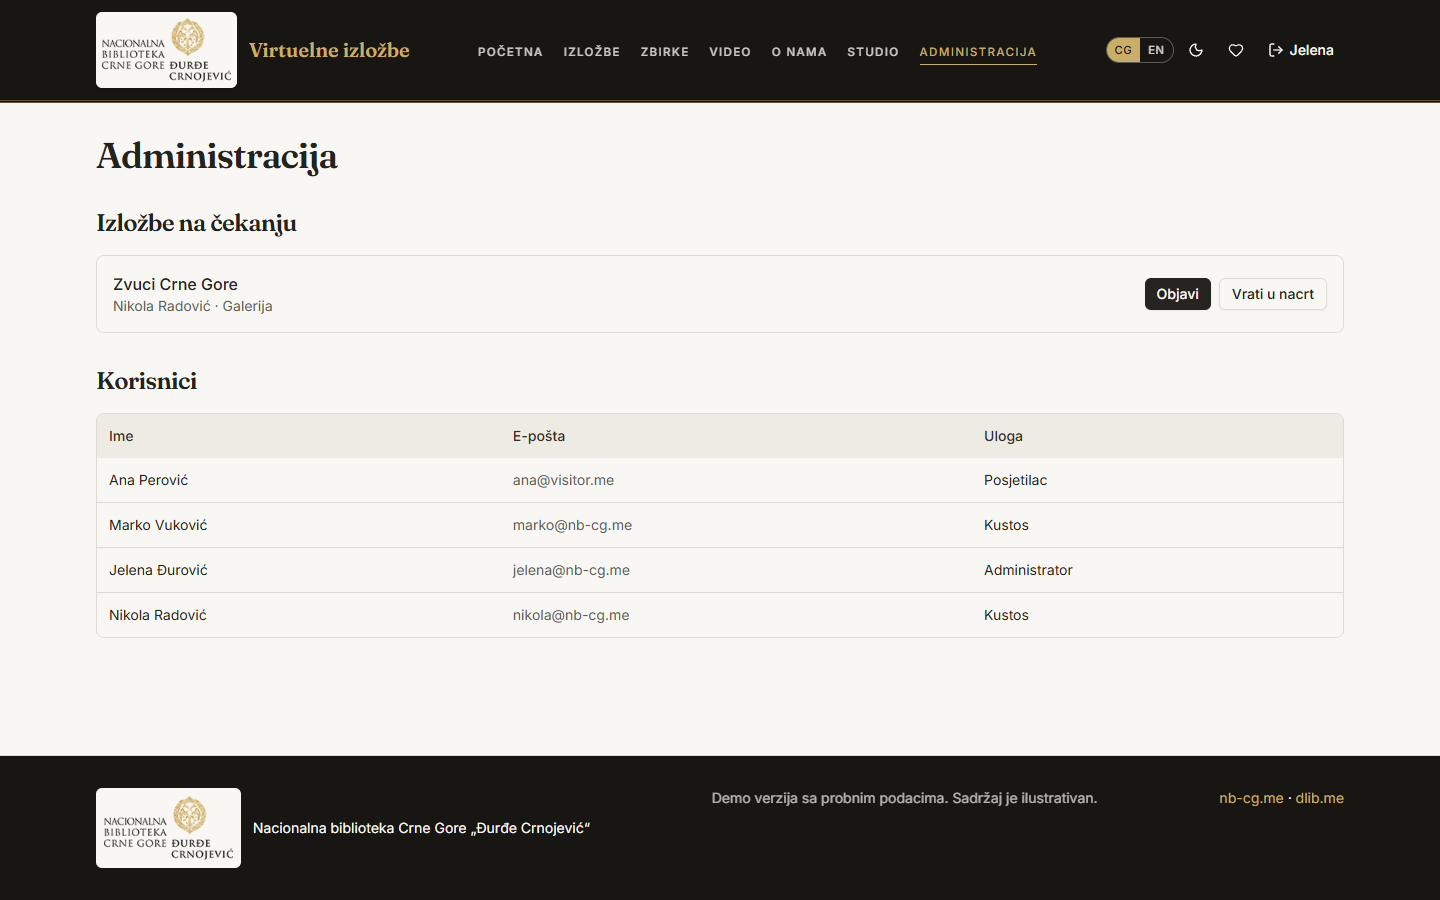
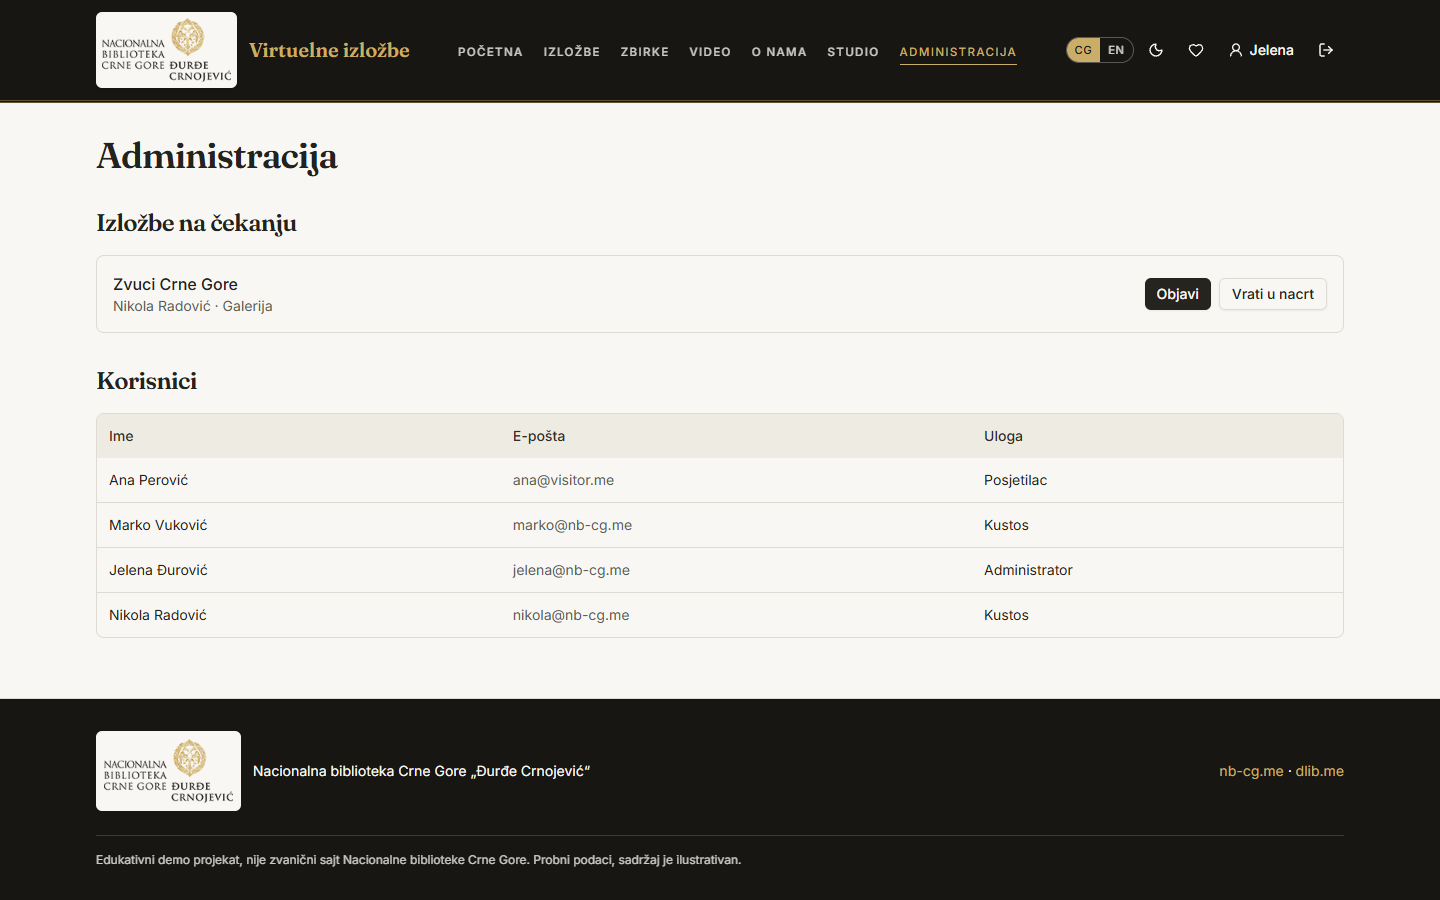
docs: state clearly that this is an unofficial educational demo
Add a notice to both READMEs and an unofficial-demo line in the site footer
(in both languages), give the footer notice its own row and refresh the two
screenshots that showed the old footer.

diff --git a/frontend/src/app/app-layout.tsx b/frontend/src/app/app-layout.tsx
@@ -219,33 +219,35 @@ export function AppLayout() {
       </main>
 
       <footer className="border-t bg-ink text-primary-foreground">
-        <div className="mx-auto flex max-w-7xl flex-col gap-2 px-4 py-8 text-sm sm:flex-row sm:justify-between">
-          <p className="flex items-center gap-3">
-            <span className="rounded-md bg-plate p-2">
-              <img src="/nbcg-logo.png" alt="" width={144} height={72} className="h-16 w-auto" />
-            </span>
-            {t('app.org')}
-          </p>
-          <p className="opacity-70">{t('footer.note')}</p>
-          <p>
-            <a
-              href="https://nb-cg.me"
-              className="text-accent hover:underline"
-              target="_blank"
-              rel="noreferrer"
-            >
-              nb-cg.me
-            </a>{' '}
-            ·{' '}
-            <a
-              href="https://dlib.me"
-              className="text-accent hover:underline"
-              target="_blank"
-              rel="noreferrer"
-            >
-              dlib.me
-            </a>
-          </p>
+        <div className="mx-auto flex max-w-7xl flex-col gap-6 px-4 py-8 text-sm">
+          <div className="flex flex-col gap-4 sm:flex-row sm:items-center sm:justify-between">
+            <p className="flex items-center gap-3">
+              <span className="rounded-md bg-plate p-2">
+                <img src="/nbcg-logo.png" alt="" width={144} height={72} className="h-16 w-auto" />
+              </span>
+              {t('app.org')}
+            </p>
+            <p>
+              <a
+                href="https://nb-cg.me"
+                className="text-accent hover:underline"
+                target="_blank"
+                rel="noreferrer"
+              >
+                nb-cg.me
+              </a>{' '}
+              ·{' '}
+              <a
+                href="https://dlib.me"
+                className="text-accent hover:underline"
+                target="_blank"
+                rel="noreferrer"
+              >
+                dlib.me
+              </a>
+            </p>
+          </div>
+          <p className="border-t border-primary-foreground/20 pt-4 text-xs opacity-80">{t('footer.note')}</p>
         </div>
       </footer>
     </div>

diff --git a/frontend/src/lib/messages-me.ts b/frontend/src/lib/messages-me.ts
@@ -154,7 +154,8 @@ export const me = {
   'admin.role': 'Uloga',
   'notFound.title': 'Stranica nije pronađena',
   'notFound.back': 'Nazad na početnu',
-  'footer.note': 'Demo verzija sa probnim podacima. Sadržaj je ilustrativan.',
+  'footer.note':
+    'Edukativni demo projekat, nije zvanični sajt Nacionalne biblioteke Crne Gore. Probni podaci, sadržaj je ilustrativan.',
   'footer.links': 'Veze',
   'common.loading': 'Učitavanje…',
   'common.error': 'Došlo je do greške.',

diff --git a/frontend/src/lib/messages-en.ts b/frontend/src/lib/messages-en.ts
@@ -156,7 +156,8 @@ export const en = {
   'admin.role': 'Role',
   'notFound.title': 'Page not found',
   'notFound.back': 'Back to home',
-  'footer.note': 'Demo version with sample data. Content is illustrative.',
+  'footer.note':
+    'Educational demo project, not the official website of the National Library of Montenegro. Sample data, content is illustrative.',
   'footer.links': 'Links',
   'common.loading': 'Loading…',
   'common.error': 'Something went wrong.',

diff --git a/README.md b/README.md
@@ -6,6 +6,8 @@ A bilingual (Montenegrin Latin script / English) platform where curators build i
 
 > Status: **frontend workshop (AI-DEV 2026, Workshop 3)** is done, running on mock data. The backend comes in Workshop 4. The contract between them is in [`docs/entities.md`](docs/entities.md).
 
+> **Notice:** this is an independent, educational demo project made for a workshop. It is **not** the official website of the National Library of Montenegro and is not affiliated with or endorsed by it. The library name and logo are used only for illustration, texts are illustrative, and the sample images and videos come from Wikimedia Commons.
+
 ![Home page](docs/screenshots/home-desktop.png)
 
 ## Highlights
@@ -122,4 +124,4 @@ Replace the mock `api/` folders with real HTTP calls, add a database modelled af
 
 ## Content and licences
 
-Texts are illustrative. Sample images and videos come from [Wikimedia Commons](https://commons.wikimedia.org) under free licences (CC BY, CC BY-SA, public domain); the author and licence are shown with each object. The National Library logo is used from nb-cg.me for this demo.
+Texts are illustrative. Sample images and videos come from [Wikimedia Commons](https://commons.wikimedia.org) under free licences (CC BY, CC BY-SA, public domain); the author and licence are shown with each object. The National Library name and logo are used from nb-cg.me for illustration in this educational demo only; this project is not official and is not affiliated with the library.

diff --git a/README.me.md b/README.me.md
@@ -6,6 +6,8 @@ Dvojezična (crnogorski latinica / engleski) platforma na kojoj kustosi od digit
 
 > Stanje: završen je **frontend** (AI-DEV 2026, Radionica 3) na probnim (mock) podacima. Backend slijedi u Radionici 4. Ugovor između njih opisan je u [`docs/entities.md`](docs/entities.md).
 
+> **Napomena:** ovo je samostalan, edukativni demo projekat nastao na radionici. **Nije** zvanični sajt Nacionalne biblioteke Crne Gore, niti je povezan sa njom ili odobren od nje. Naziv i logo biblioteke koriste se samo radi ilustracije, tekstovi su ilustrativni, a probne slike i video zapisi su sa Wikimedia Commons.
+
 ![Početna stranica](docs/screenshots/home-desktop.png)
 
 ## Šta sajt nudi
@@ -75,4 +77,4 @@ Mock `api/` folderi zamjenjuju se pravim HTTP pozivima, uz bazu po `docs/entitie
 
 ## Sadržaj i licence
 
-Tekstovi su ilustrativni. Probne slike i video zapisi su sa [Wikimedia Commons](https://commons.wikimedia.org) pod slobodnim licencama (CC BY, CC BY-SA, javno dobro); autor i licenca prikazani su uz svaki objekat. Logo Nacionalne biblioteke preuzet je sa nb-cg.me za potrebe ovog demoa.
+Tekstovi su ilustrativni. Probne slike i video zapisi su sa [Wikimedia Commons](https://commons.wikimedia.org) pod slobodnim licencama (CC BY, CC BY-SA, javno dobro); autor i licenca prikazani su uz svaki objekat. Naziv i logo Nacionalne biblioteke preuzeti su sa nb-cg.me isključivo radi ilustracije u ovom edukativnom demou; projekat nije zvaničan i nije povezan sa bibliotekom.
